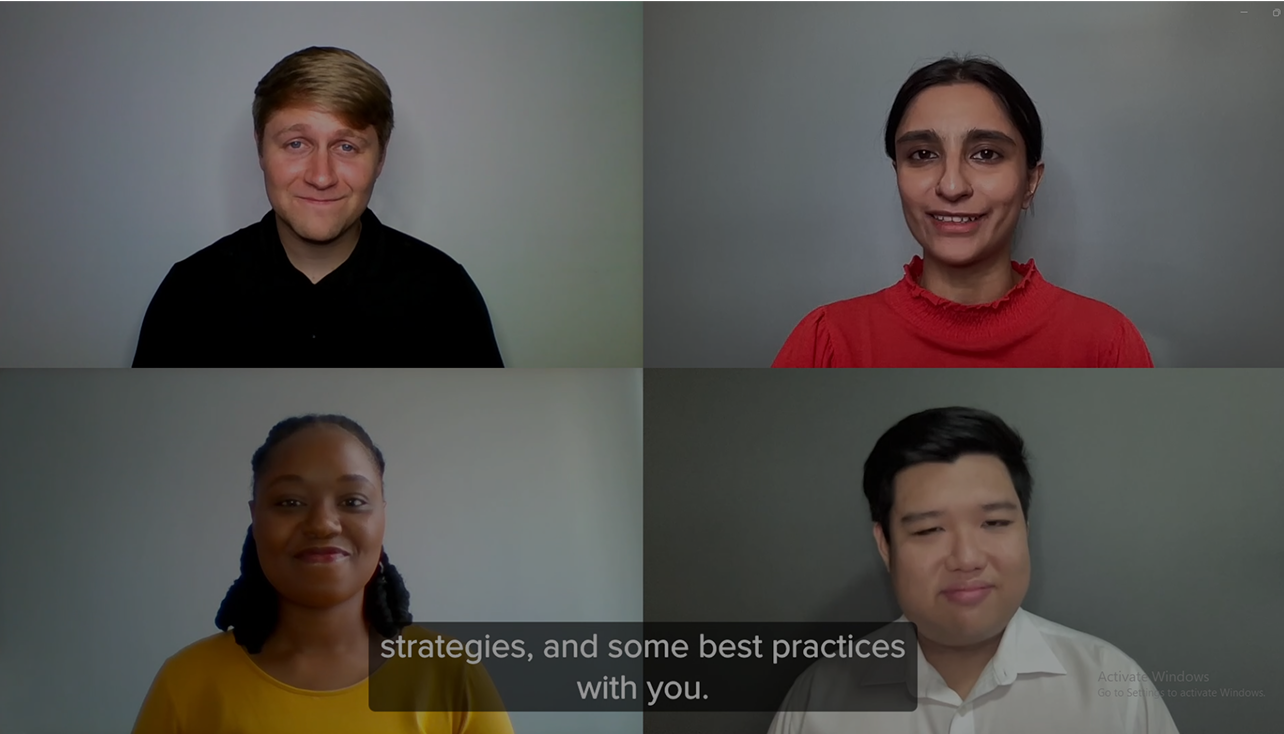
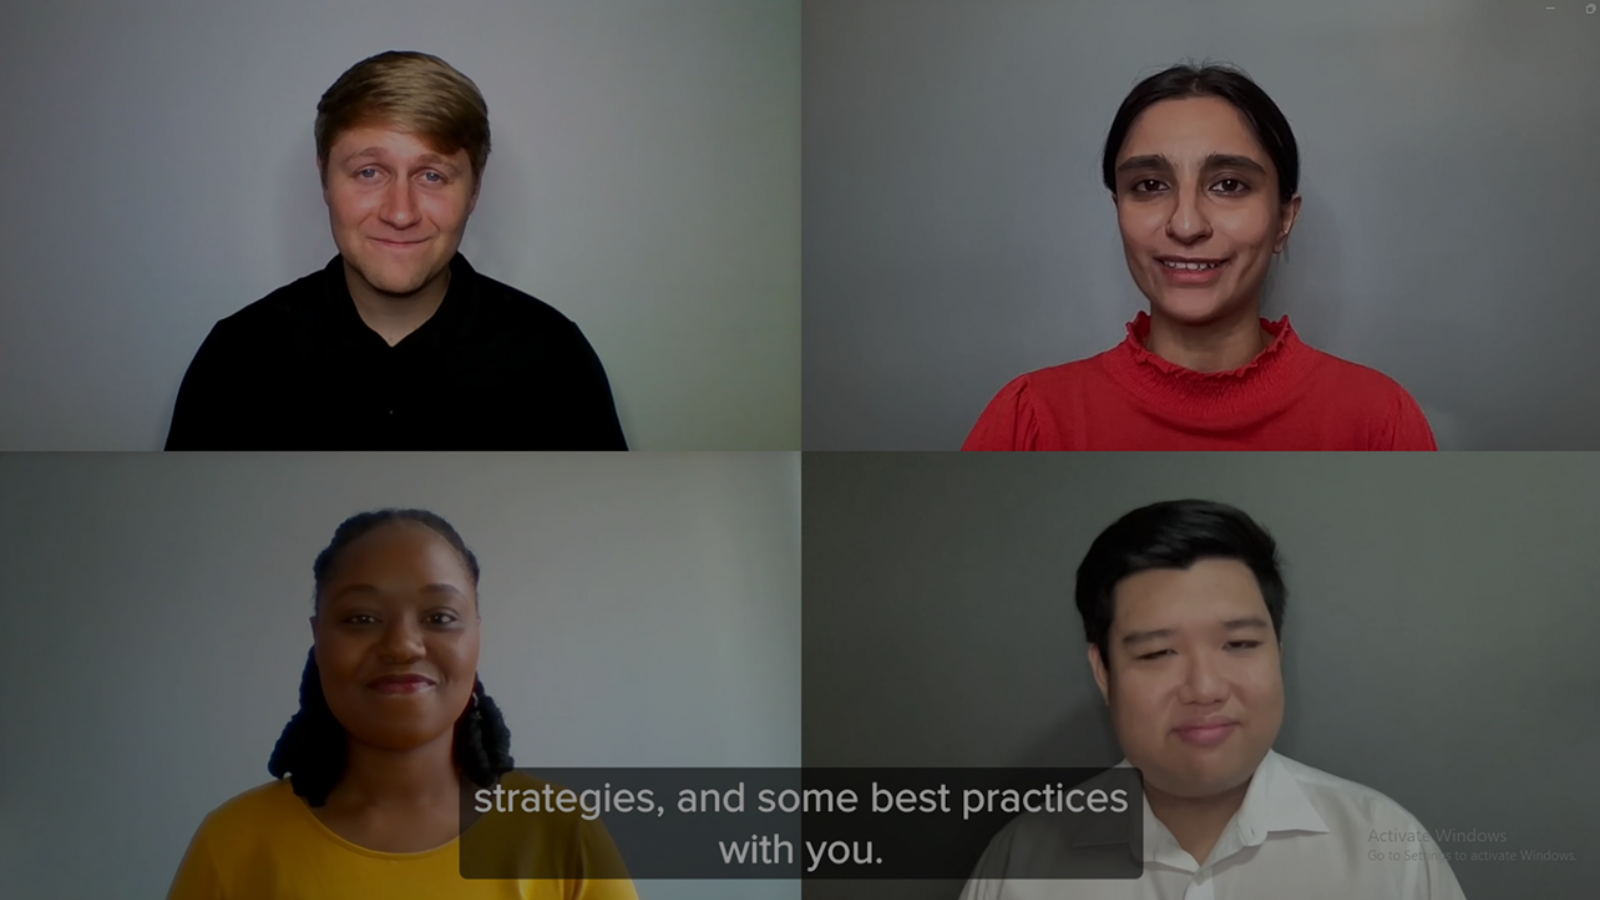
Updated project with latest changes

diff --git a/src/pages/Interview.tsx b/src/pages/Interview.tsx
@@ -24,7 +24,7 @@ import learning from "../assets/image/learning.jpeg";
 import company from "../assets/image/company.jpeg";
 import conversation from "../assets/image/conversation.jpeg";
 import expertise from "../assets/image/expertise.jpeg";
-import asking1 from "../assets/image/asking1.jpeg";
+import asking1 from "../assets/image/asking1.png";
 import practice from "../assets/image/practice.jpeg";
 import sample from "../assets/image/sample.pdf";
 import car from "../assets/image/car.pdf";
@@ -174,7 +174,7 @@ const Interview = () => {
 
             youtubeUrl: "https://www.youtube.com/embed/Oiu77R4y6LA?list=PLECughgtWWpTUwbD0uwK3EUKVdaUyQLN_&index=4", // embed format
         },
-        {
+        {       
             img: asking1,
             title: "Ask the Right Questions",
             desc: "Learn what questions to ask in an interview to show initiative.",
